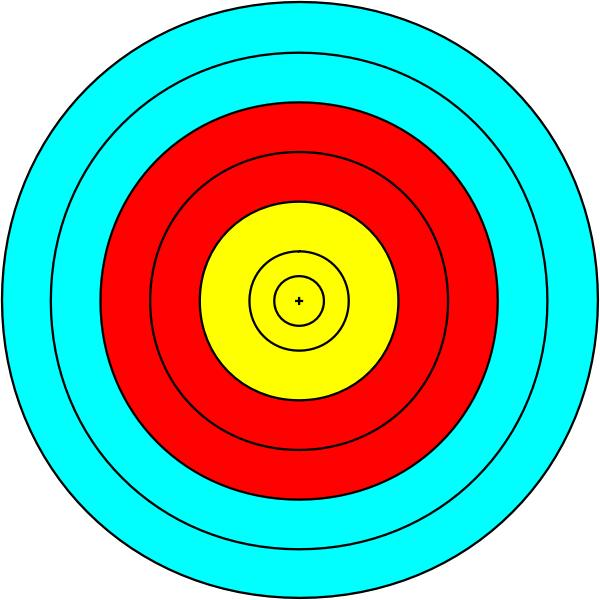
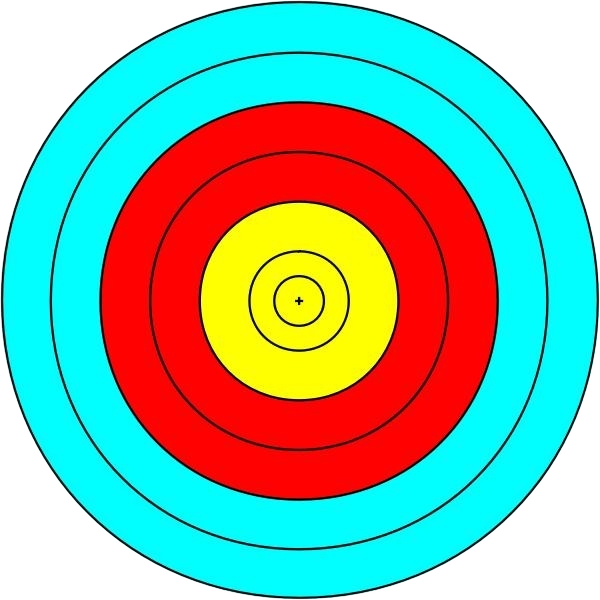
Fixed ( Image -> added colors to powerBar -> fix arrow issue -> ( Score Work in progress )

diff --git a/script.js b/script.js
@@ -1,21 +1,40 @@
 const shootButton = document.getElementById("shoot-button");
 const arrow = document.querySelector(".arrow");
 const powerFill = document.querySelector(".power-fill");
+const scoreText = document.getElementById("score");
 
-let powerAnimation;
-
+let score = 0;
 let aimStartTime = 0;
 let currentPower = 0;
 let isCharging = false;
+let powerAnimation;
 
-const maxHoldTime = 2000;
 
-const minX = 50;
-const maxX = 800;
+/* Shooting settings */
 
-function updatePowerMeter() {
+const maxHoldTime = 600;
 
-    if (!isCharging) {
+/* Main */
+const minX = 0;
+const midX = 516;
+const maxX = 1032;
+
+/* Test */
+/* const minX = 516;
+const midX = 516;
+const maxX = 516; */
+
+const midPowerMin = 0.495;
+const midPowerMax = 0.505;
+
+
+/* Power meter */
+
+function updatePowerMeter() 
+{
+
+    if (!isCharging) 
+    {
         return;
     }
 
@@ -34,7 +53,11 @@ function updatePowerMeter() {
     powerAnimation = requestAnimationFrame(updatePowerMeter);
 }
 
-shootButton.addEventListener("pointerdown", function () {
+
+/* Hold button */
+
+shootButton.addEventListener("pointerdown", function () 
+{
 
     aimStartTime = performance.now();
 
@@ -53,7 +76,10 @@ shootButton.addEventListener("pointerdown", function () {
 });
 
 
-shootButton.addEventListener("pointerup", function () {
+/* Release button */
+
+shootButton.addEventListener("pointerup", function () 
+{
 
     isCharging = false;
 
@@ -61,14 +87,72 @@ shootButton.addEventListener("pointerup", function () {
 
     const power = currentPower;
 
-    const shootX = minX + (maxX - minX) * power;
+    let points = 0;
 
-    arrow.style.setProperty("--shoot-x", shootX + "px");
+    if (power >= midPowerMin && power <= midPowerMax)
+    {
+        points = 10;
+    }
+
+    else if (power >= 0.45 && power <= 0.55)
+    {
+        points = 5;
+    }
+
+    else if (power >= 0.35 && power <= 0.65)
+    {
+        points = 2;
+    }
+
+
+    let shootX;
+
+    /* **************************
+       CALCULATE WHERE ARROW LANDS
+    ************************** */
+
+    if (power >= midPowerMin && power <= midPowerMax) 
+    {
+
+        shootX = midX;
+
+    }
+
+    else if (power < midPowerMin) 
+    {
+
+        shootX =
+            minX +
+            (midX - minX) *
+            (power / midPowerMin);
+
+    }
+
+    else 
+    {
+
+        shootX =
+            midX +
+            (maxX - midX) *
+            ((power - midPowerMax) /
+            (1 - midPowerMax));
+
+    }
+
+    /* ************************** */
+
+
+    arrow.style.setProperty(
+        "--shoot-x",
+        shootX + "px"
+    );
+
 
     shootButton.textContent = "Hold to Aim";
 
     arrow.classList.remove("aiming");
     arrow.classList.add("shooting");
+
 
     console.log("Power:", power);
     console.log("Landing X:", shootX);

diff --git a/style.css b/style.css
@@ -1,9 +1,14 @@
+:root
+{
+    background-color: beige;
+}
+
 
 body
 {
     font-family: Arial, sans-serif;
     text-align: center;
-    background-color: #f2f2f2;
+    background-color: beige;
 }
 
 .target-area
@@ -19,11 +24,15 @@ body
     width: 300px;
 
     transition: transform 0.3s ease;
+
+    z-index: -1;
 }
 
 #target img:hover
 {
     transform: scale(1.1);
+
+    z-index: -1;
 }
 
 button
@@ -63,6 +72,8 @@ button:hover
     transition: transform 0.4s ease;
 
     transform: translateY(-50%);
+
+    z-index: 2;
 }
 
 .arrow-head 
@@ -78,6 +89,8 @@ button:hover
     border-top: 10px solid transparent;
     border-bottom: 10px solid transparent;
     border-left: 18px solid #000;
+
+    z-index: 2;
 }
 
 .arrow.aiming 
@@ -103,29 +116,10 @@ button:hover
 }
 
 
-@keyframe buttonGlow
-{
-    0%
-    {
-        box-shadow: 0 0 0px green;
-    }
-
-    50%
-    {
-        box-shadow: 0 0 15px green;
-    }
-
-    100%
-    {
-        box-shadow: 0 0 0px green;
-    }
-}
-
-
 .arrow {
     position: absolute;
 
-    top: 50%;
+    top: 49%;
     left: -500px;
 
     width: 120px;
@@ -136,6 +130,8 @@ button:hover
     transition: transform 0.4s ease;
 
     transform: translateY(-50%);
+
+    z-index: 2;
 }
 
 .power-meter 
@@ -149,16 +145,43 @@ button:hover
     border-radius: 10px;
 
     overflow: hidden;
-}
 
+    background: linear-gradient(
+        to right,
+        red 0%,
+        red 15%,
+
+        orange 20%,
+        orange 30%,
+
+        yellow 35%,
+        yellow 45%,
+
+  
+        lightgreen 48%,
+        lightgreen 52%,
+
+
+        yellow 55%,
+        yellow 65%,
+
+        orange 70%,
+        orange 80%,
+
+        red 85%,
+        red 100%
+    );
+}
 .power-fill 
 {
     width: 0%;
     height: 100%;
 
-    background-color: green;
+    background-color: transparent;
 
-    transition: width 0.05s linear;
+    border-right: 4px solid black;
+
+    box-sizing: border-box;
 }
 
 

diff --git a/index.html b/index.html
@@ -51,13 +51,15 @@
                 Hold to Aim
             </button>
 
+            <p id="score">Score: 0</p>
+
         </section>
 
     </main>
 
 
     <footer>
-        <p>Archery Challenge Project</p>
+        <p>Tip: Hold the button down to increase the power.</p>
     </footer>
 
 
